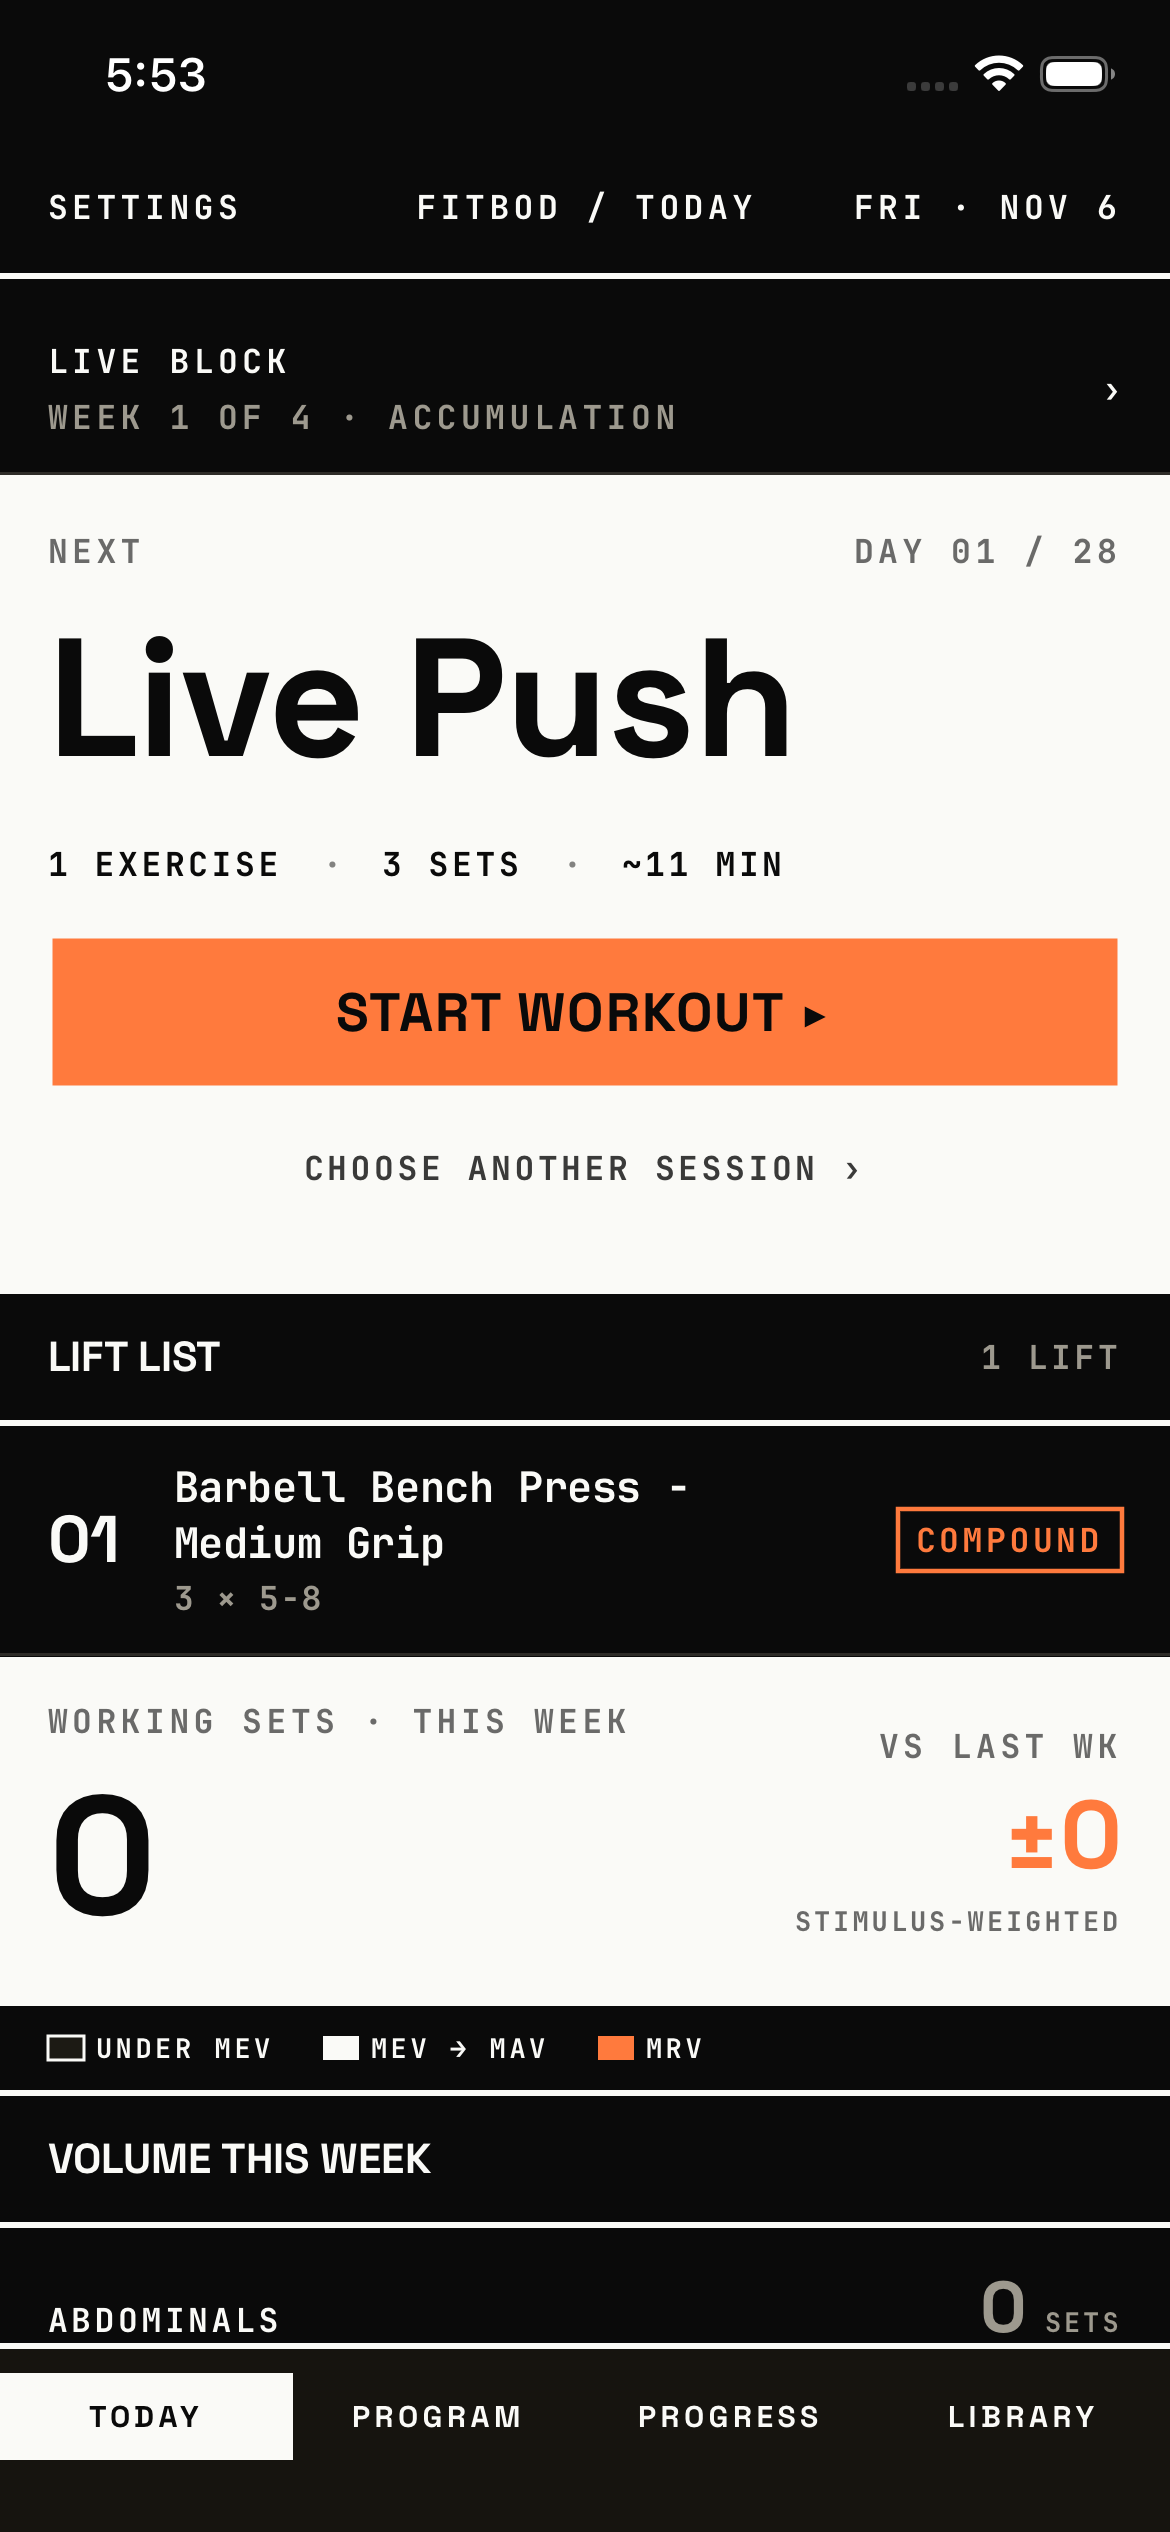
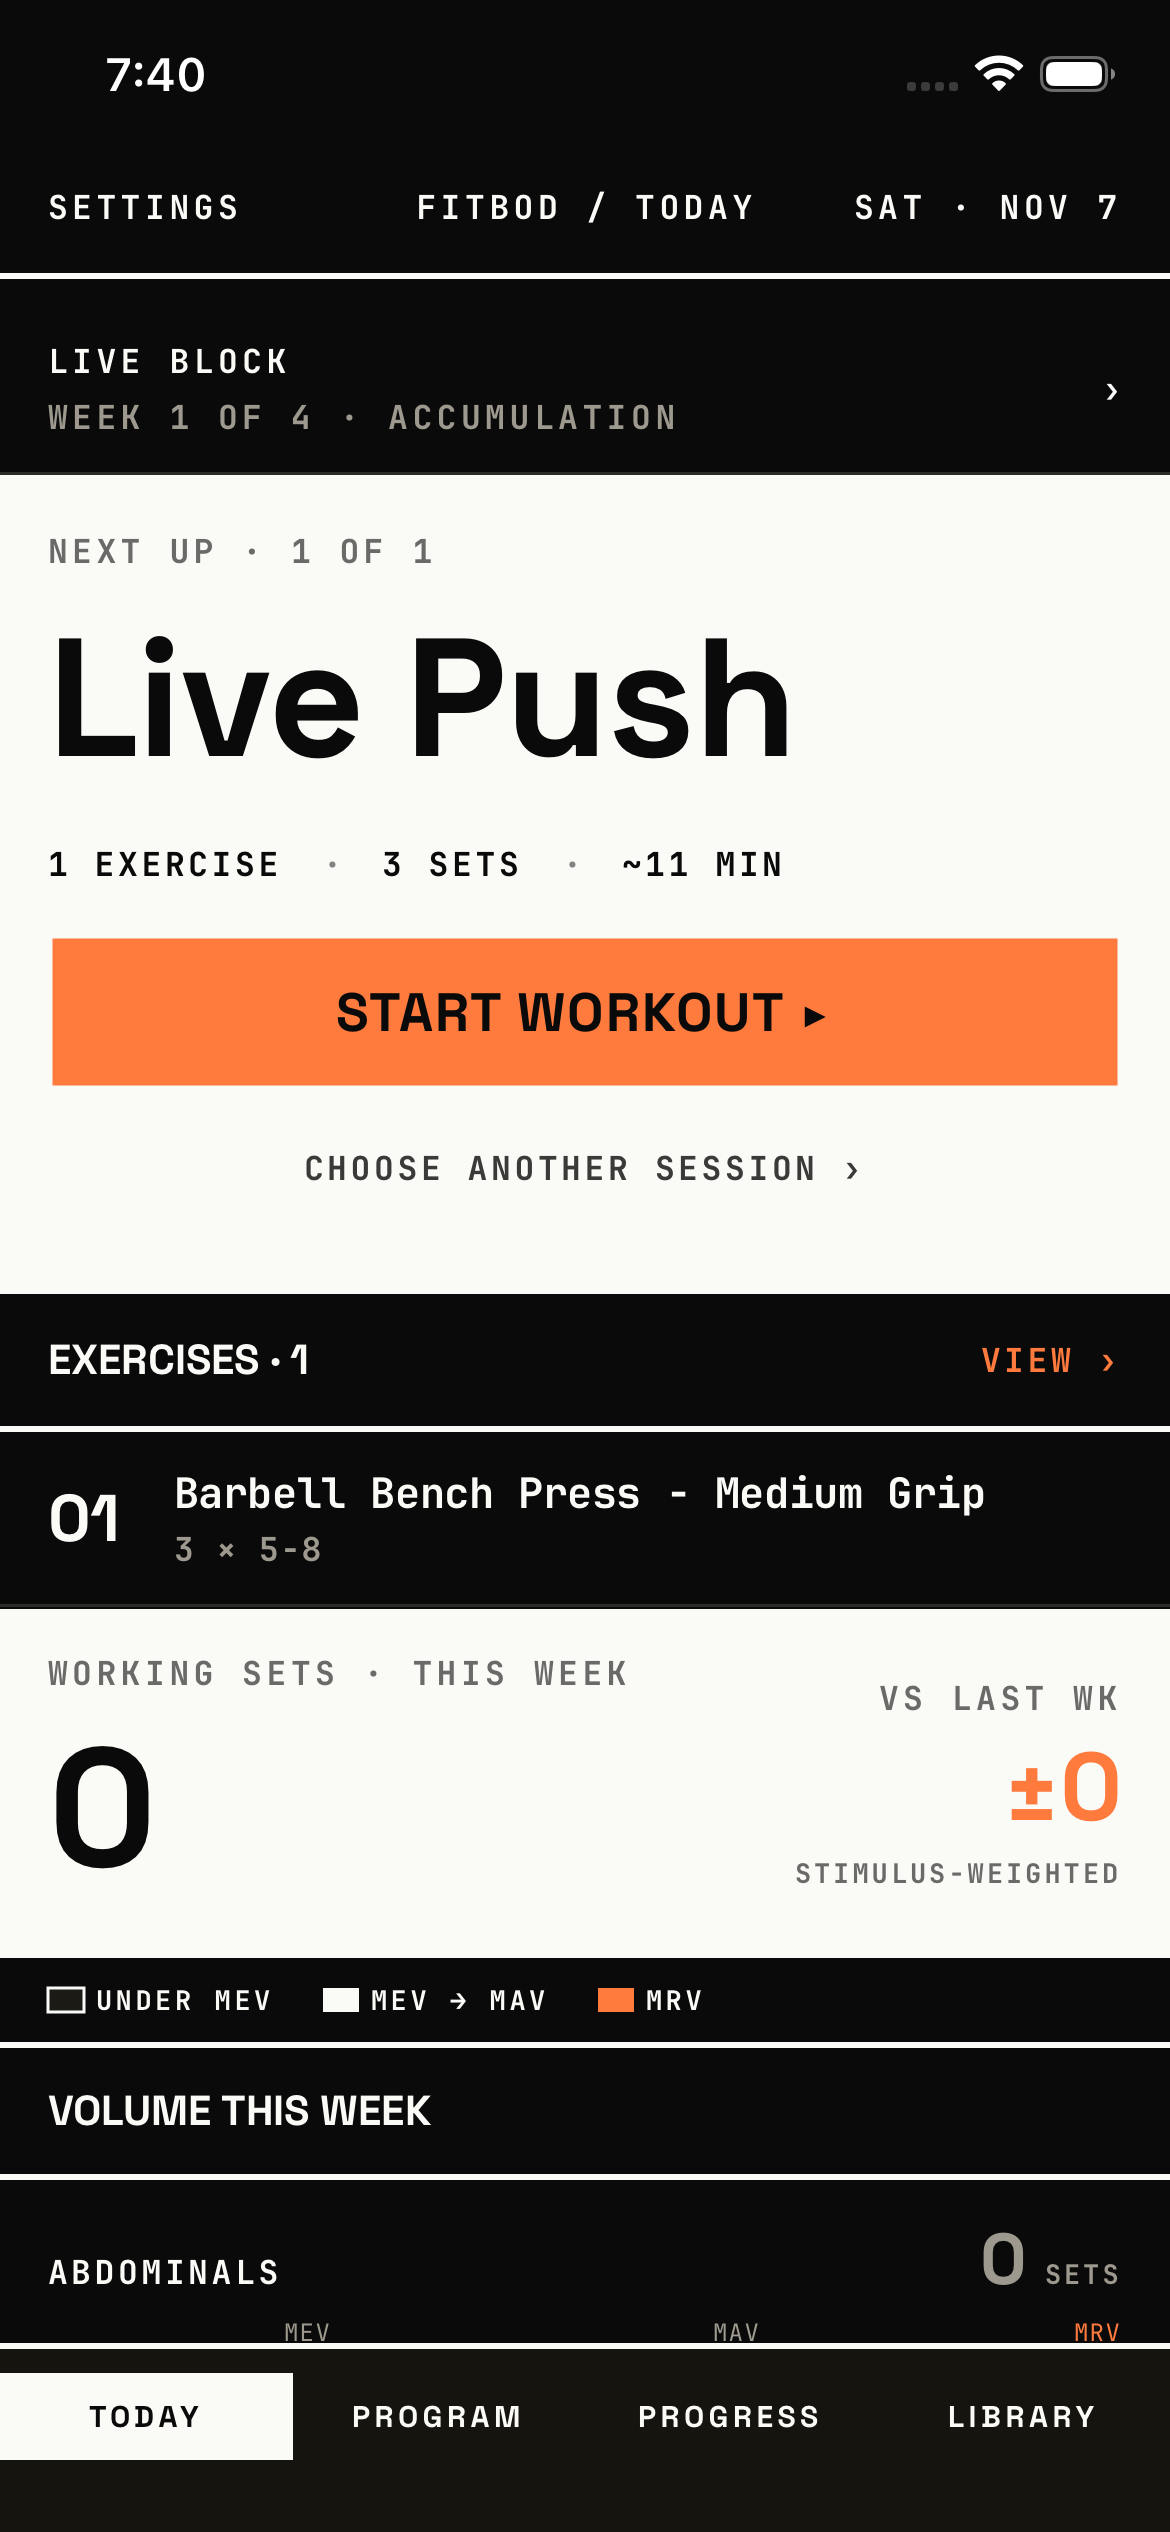
docs(redesign): step 1.2 captures and changelog

diff --git a/docs/design-map/redesign/changelog.md b/docs/design-map/redesign/changelog.md
@@ -3,6 +3,16 @@
 Newest first.
 One entry per iteration: what changed and why.
 
+## 2026-11-07, step 1.2 landed
+
+The hero reads TODAY on a fixed-weekly block and NEXT UP · n OF m on a rotation, in place of NEXT and the DAY counter.
+Its set count and each exercise row count the working sets the phase yields, through `PeriodizationEngine.workingSetCount`, the one rule the session factory now plans from.
+The deload caption "Deload week · lighter sets" lands in the hero here, since 1.1 removed the banner.
+The list head reads EXERCISES · n with VIEW ›, which opens the session, and the rows drop the COMPOUND and WORK chips and the warm-up count.
+The hero keeps its 3 min per set estimate while the session detail's differs, as before this step.
+The hand-made block seeds (`BlockStatesSeed`) give deload phases the catalog's 0.5 volume, so the deload capture and UI test cut sets as a real block does.
+`SessionFactory.start` and `WorkoutStarter.start` take a calendar, `.current` by default, so Today's hero, rows and start read the same block day.
+
 ## 2026-11-06, step 1.1 landed
 
 `TodayState` resolves the Today state table and the plan line (block name over `WEEK N OF M · PHASE`, or `PLAN COMPLETE`) replaces the stat strip, block band and week cells.
